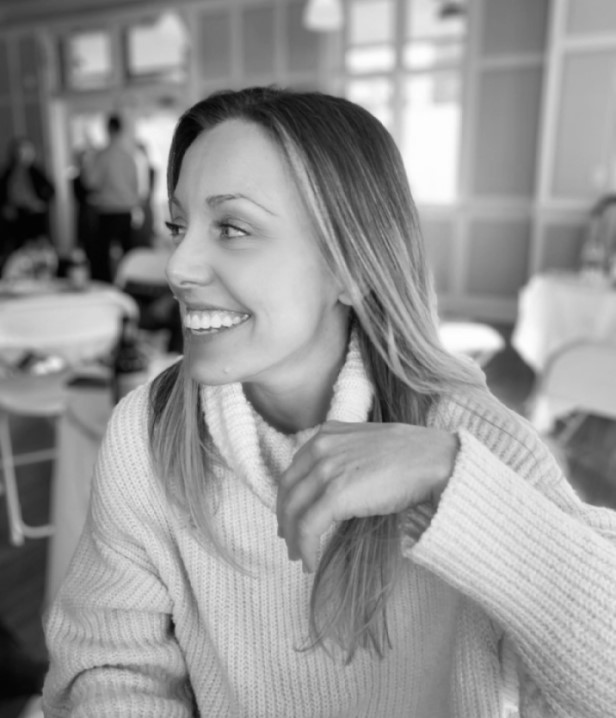
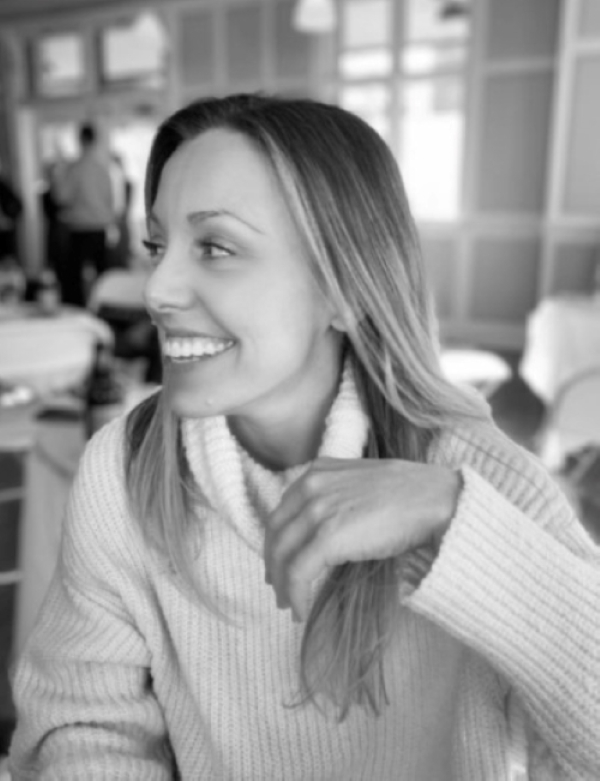
mobile friendly

diff --git a/style.css b/style.css
@@ -78,7 +78,6 @@ a.nav-link:hover {
   padding-bottom: 90%;
 }
 
-
 #name-div{
   font-family: 'Cormorant Garamond', serif;
   margin-top: 20%;
@@ -108,23 +107,21 @@ a.nav-link:hover {
 }
 
 #portrait-div{
-  width:100vw;
+  width:95px;
   height:815px;
   margin:0;
-  padding:0;  
+  padding:0;
 }
 
-#suzy {
- max-width:100%;
- height:auto;
- max-height:100%;
- border: solid 2px black; 
- width: 50%;
+#me {
+  max-width:100%;
+  height:auto;
+  max-height:100%;
 }
 
 .aboutme {
   font-family:'Montserrat', sans-serif;
-  font-size: 2.7vw;
+  font-size: 3.7vw;
   text-align: center;
 }
 
@@ -136,8 +133,9 @@ a.nav-link:hover {
 
 .contactMe {
   font-family:  'Montserrat', sans-serif;
-  font-size: 2.7vw;
+  font-size: 3.7vw;
   text-align: center;
+  position: inherit;
 }
 
 .contact-div {
@@ -155,16 +153,25 @@ a.nav-link:hover {
   text-align: center;
 }
 
+#back-to-top {
+  font-family: 'Montserrat', sans-serif;
+  color: black;
+}
+
 .social {
   font-size: 15px;
   text-align: left;
 }
 
-
 .work {
-  font-size: 2.7vw;
+  font-size: 3.7vw;
   font-family:  'Montserrat', sans-serif;
   text-align: center;
+}
+
+#mywork {
+  font-family: 'Montserrat', sans-serif;
+  color: black;
 }
 
 .about-paragraphs {
@@ -175,8 +182,6 @@ a.nav-link:hover {
   font-family: 'Montserrat', sans-serif;
   position: relative;
   margin-bottom:100px; 
- 
-
 }
 
 .navbar {
@@ -208,21 +213,7 @@ a.nav-link:hover {
   text-align: left;
   font-family: 'Montserrat', sans-serif;
 }
-    
-#me {
-  object-fit: cover;
-  width: 75%;
-  padding-left: 20%;
-  position:relative;
-}
 
-    
-#me2 {
-  object-fit: cover;
-  width: 75%;
-  padding-left: 20%;
-  position:relative;
-}
 
 #copyright {
   text-align: center;
@@ -284,9 +275,9 @@ li:hover::after {
 
  .card {
   border-radius: 5px;
-  margin: 1rem;
+  margin: 4rem;
   position: relative;
-  width: 250px;
+  width: 300px;
   box-shadow: 0 3px 6px rgb(238, 236, 237), 0 3px 6px #999;
   text-align: center;
 }
@@ -362,32 +353,32 @@ li:hover::after {
     padding: 10px;
   }
 
-/* For mobile phones: */
-[class*="col-"] {
-  width: 100%;
-}
-
-@media only screen and (min-width: 768px) {
-  /* For desktop: */
-  .col-1 {width: 8.33%;}
-  .col-2 {width: 16.66%;}
-  .col-3 {width: 25%;}
-  .col-4 {width: 33.33%;}
-  .col-5 {width: 41.66%;}
-  .col-6 {width: 50%;}
-  .col-7 {width: 58.33%;}
-  .col-8 {width: 66.66%;}
-  .col-9 {width: 75%;}
-  .col-10 {width: 83.33%;}
-  .col-11 {width: 91.66%;}
-  .col-12 {width: 100%;}
-}
-
- @include media-breakpoint-between(xs,sm){
-  .btn {
-      @include button-size($input-btn-padding-y-sm, $input-btn-padding-x-sm, $font-size-sm, $line-height-sm, $btn-border-radius-sm);
+  /* For mobile phones: */
+  [class*="col-"] {
+    width: 100%;
   }
-}
+  
+  @media only screen and (min-width: 768px) {
+    /* For desktop: */
+    .col-1 {width: 8.33%;}
+    .col-2 {width: 16.66%;}
+    .col-3 {width: 25%;}
+    .col-4 {width: 33.33%;}
+    .col-5 {width: 41.66%;}
+    .col-6 {width: 50%;}
+    .col-7 {width: 58.33%;}
+    .col-8 {width: 66.66%;}
+    .col-9 {width: 75%;}
+    .col-10 {width: 83.33%;}
+    .col-11 {width: 91.66%;}
+    .col-12 {width: 100%;}
+  }
+
+  @include media-breakpoint-between(xs,sm){
+    .btn {
+        @include button-size($input-btn-padding-y-sm, $input-btn-padding-x-sm, $font-size-sm, $line-height-sm, $btn-border-radius-sm);
+    }
+  }
   
   /* Responsive layout - makes a two column-layout instead of four columns */
   @media screen and (max-width: 900px) {

diff --git a/index.html b/index.html
@@ -60,7 +60,6 @@
   <section id="home">
 
     <div class="container-fluid">
-      <section id="intro">
         <div class="row">
           <div class="col-sm-1"></div>
           <div class="col-sm-5">
@@ -77,18 +76,19 @@
               </p>
             </div>
             <div class="mywork">
-              <strong><a href="index.html#portfolio"> Check out my work</a></strong>
+              <strong><a id="mywork" href="index.html#portfolio"> Check out my work</a></strong>
             </div>
           </div>
           <div class="col-sm-5">
             <div id="portrait-div">
-              <img id="Me" src="./images/me2.jpg" alt="Me">
+              <img id="Me" src="./images/me1.jpg" alt="Me">
             </div>
           </div>
           <div class="col-sm-1"></div>
         </div>
-      </section>
     </div>
+
+  </section>
 
     <!-- About Me -->
     <section id="about">
@@ -100,6 +100,7 @@
               <img src="./images/me4.jpg" id="me" alt="suzy" />
             </div>
             <div class="col-sm-5 about-photo-text-align">
+              <br>
               <h3 class="about-section-header">Intuitive</h3>
               <p class="about-paragraphs">
                 Some may call me "sensitive", a word that for some reason or another has a unfavorable connotation to
